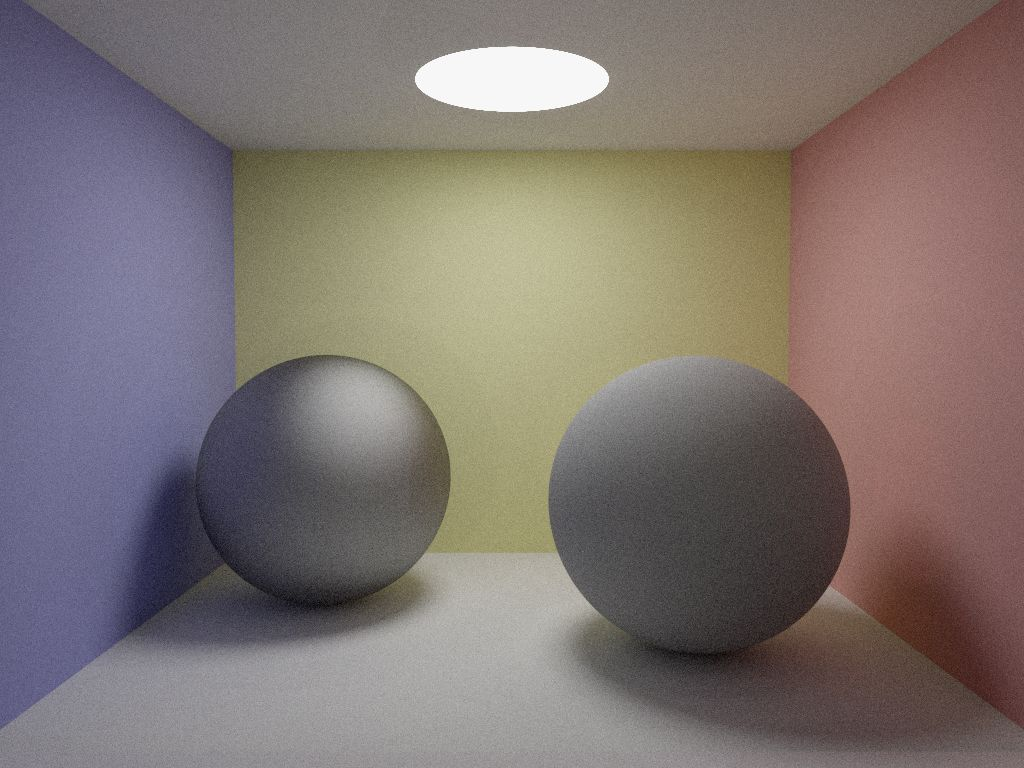
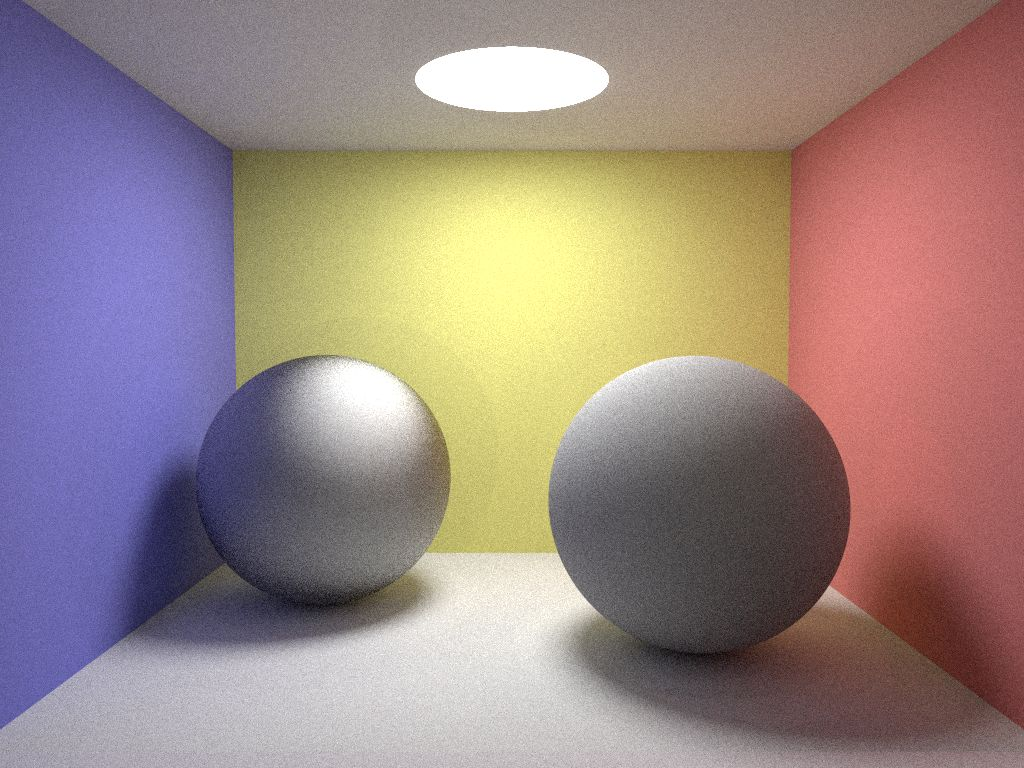
Fix sampling and averaging

diff --git a/cuda/main.cpp b/cuda/main.cpp
@@ -2,6 +2,7 @@
 #include "lcuda.h"
 #include "kernel.h"
 #include <array>
+#include <random>
 
 using namespace lcuda;
 
@@ -89,6 +90,9 @@ int main(int argc, char** argv)
     static const s32 Width = 1024;
     static const s32 Height = 768;
     static const s32 Size = Width*Height;
+    static const s32 SamplesPerPixel = 4096;
+
+    std::random_device device_random;
 
     float3* screen = lcuda::cudaMalloc<float3>(Size);
     float3* screenHost = lcuda::cudaMallocHost<float3>(Size);
@@ -104,9 +108,8 @@ int main(int argc, char** argv)
     constants.cameraRay_ = Ray(make_float3(0.0f, 40.8e-2f, 120e-2f), normalize(make_float3(0.0f, -0.042612f, -1.0f)));
 
     constants.roughness_ = 0.5f;
-    constants.spp_ = ConstantsRender::SamplesPerStep;
-
-    constants.random_ = 12345;
+    s32 spp = (SamplesPerPixel + ConstantsRender::SamplesPerStep -1) & ~(ConstantsRender::SamplesPerStep -1);
+    constants.samplesPerStep_ = ConstantsRender::SamplesPerStep;
 
     //Scene: type, radius, position, normal, emission, color, material
     float3 Zero = make_float3(0.0f);
@@ -121,19 +124,20 @@ int main(int argc, char** argv)
     constants.shapes_[7] = Shape(Shape::Type_Sphere, 20e-2f, make_float3(25e-2f, 20e-2f, 1e-1f), Zero, Zero,make_float3(1,1,1)*.999f, DIFFUSE);//Glas
     constants.shapes_[8] = Shape(Shape::Type_Sphere, 100e-2f, make_float3(0.0f,17.9e-1f, 0.0f), Zero, make_float3(2,2,2), Zero, EMITTER); //Light
 
-    s32 numLoops = 32/constants.spp_;
-    constants.scale_ = 1.0f/numLoops;
+    s32 numLoops = spp/ConstantsRender::SamplesPerStep;
 
     std::array<DistributionType, 4> distributions = {Distribution_Beckmann, Distribution_GGX, Distribution_GGXVND, Distribution_GGXVND2};
     std::array<const char*, 4> filenames = {"beckmann.ppm", "ggx.ppm", "ggx_vnd.ppm", "ggx_vnd2.ppm"};
 
     for(s32 i = 0; i<distributions.size(); ++i){
         cudaMemset(screen, 0, sizeof(float3)*Size);
-        uint4 random = xoshiro128plus_srand(12345);
+        uint4 random = xoshiro128plus_srand(device_random());
+        constants.count_ = 0;
         for(s32 j = 0; j<numLoops; ++j){
             golden_set(constants.samples_, ConstantsRender::SamplesPerStep, random);
             constants.random_ = xoshiro128plus_rand(random);
             kernel_render(screen, 16, constants, distributions[i]);
+            constants.count_ += ConstantsRender::SamplesPerStep;
         }
 
         cudaMemcpy(screenHost, screen, sizeof(float3)*Size, cudaMemcpyDeviceToHost);

diff --git a/cuda/kernel.h b/cuda/kernel.h
@@ -102,8 +102,8 @@ struct ConstantsRender
     lcuda::Ray cameraRay_;
 
     lcuda::f32 roughness_;
-    lcuda::s32 spp_;
-    lcuda::f32 scale_;
+    lcuda::s32 samplesPerStep_;
+    lcuda::s32 count_;
     lcuda::u32 random_;
 
     Shape shapes_[NumShapes];
